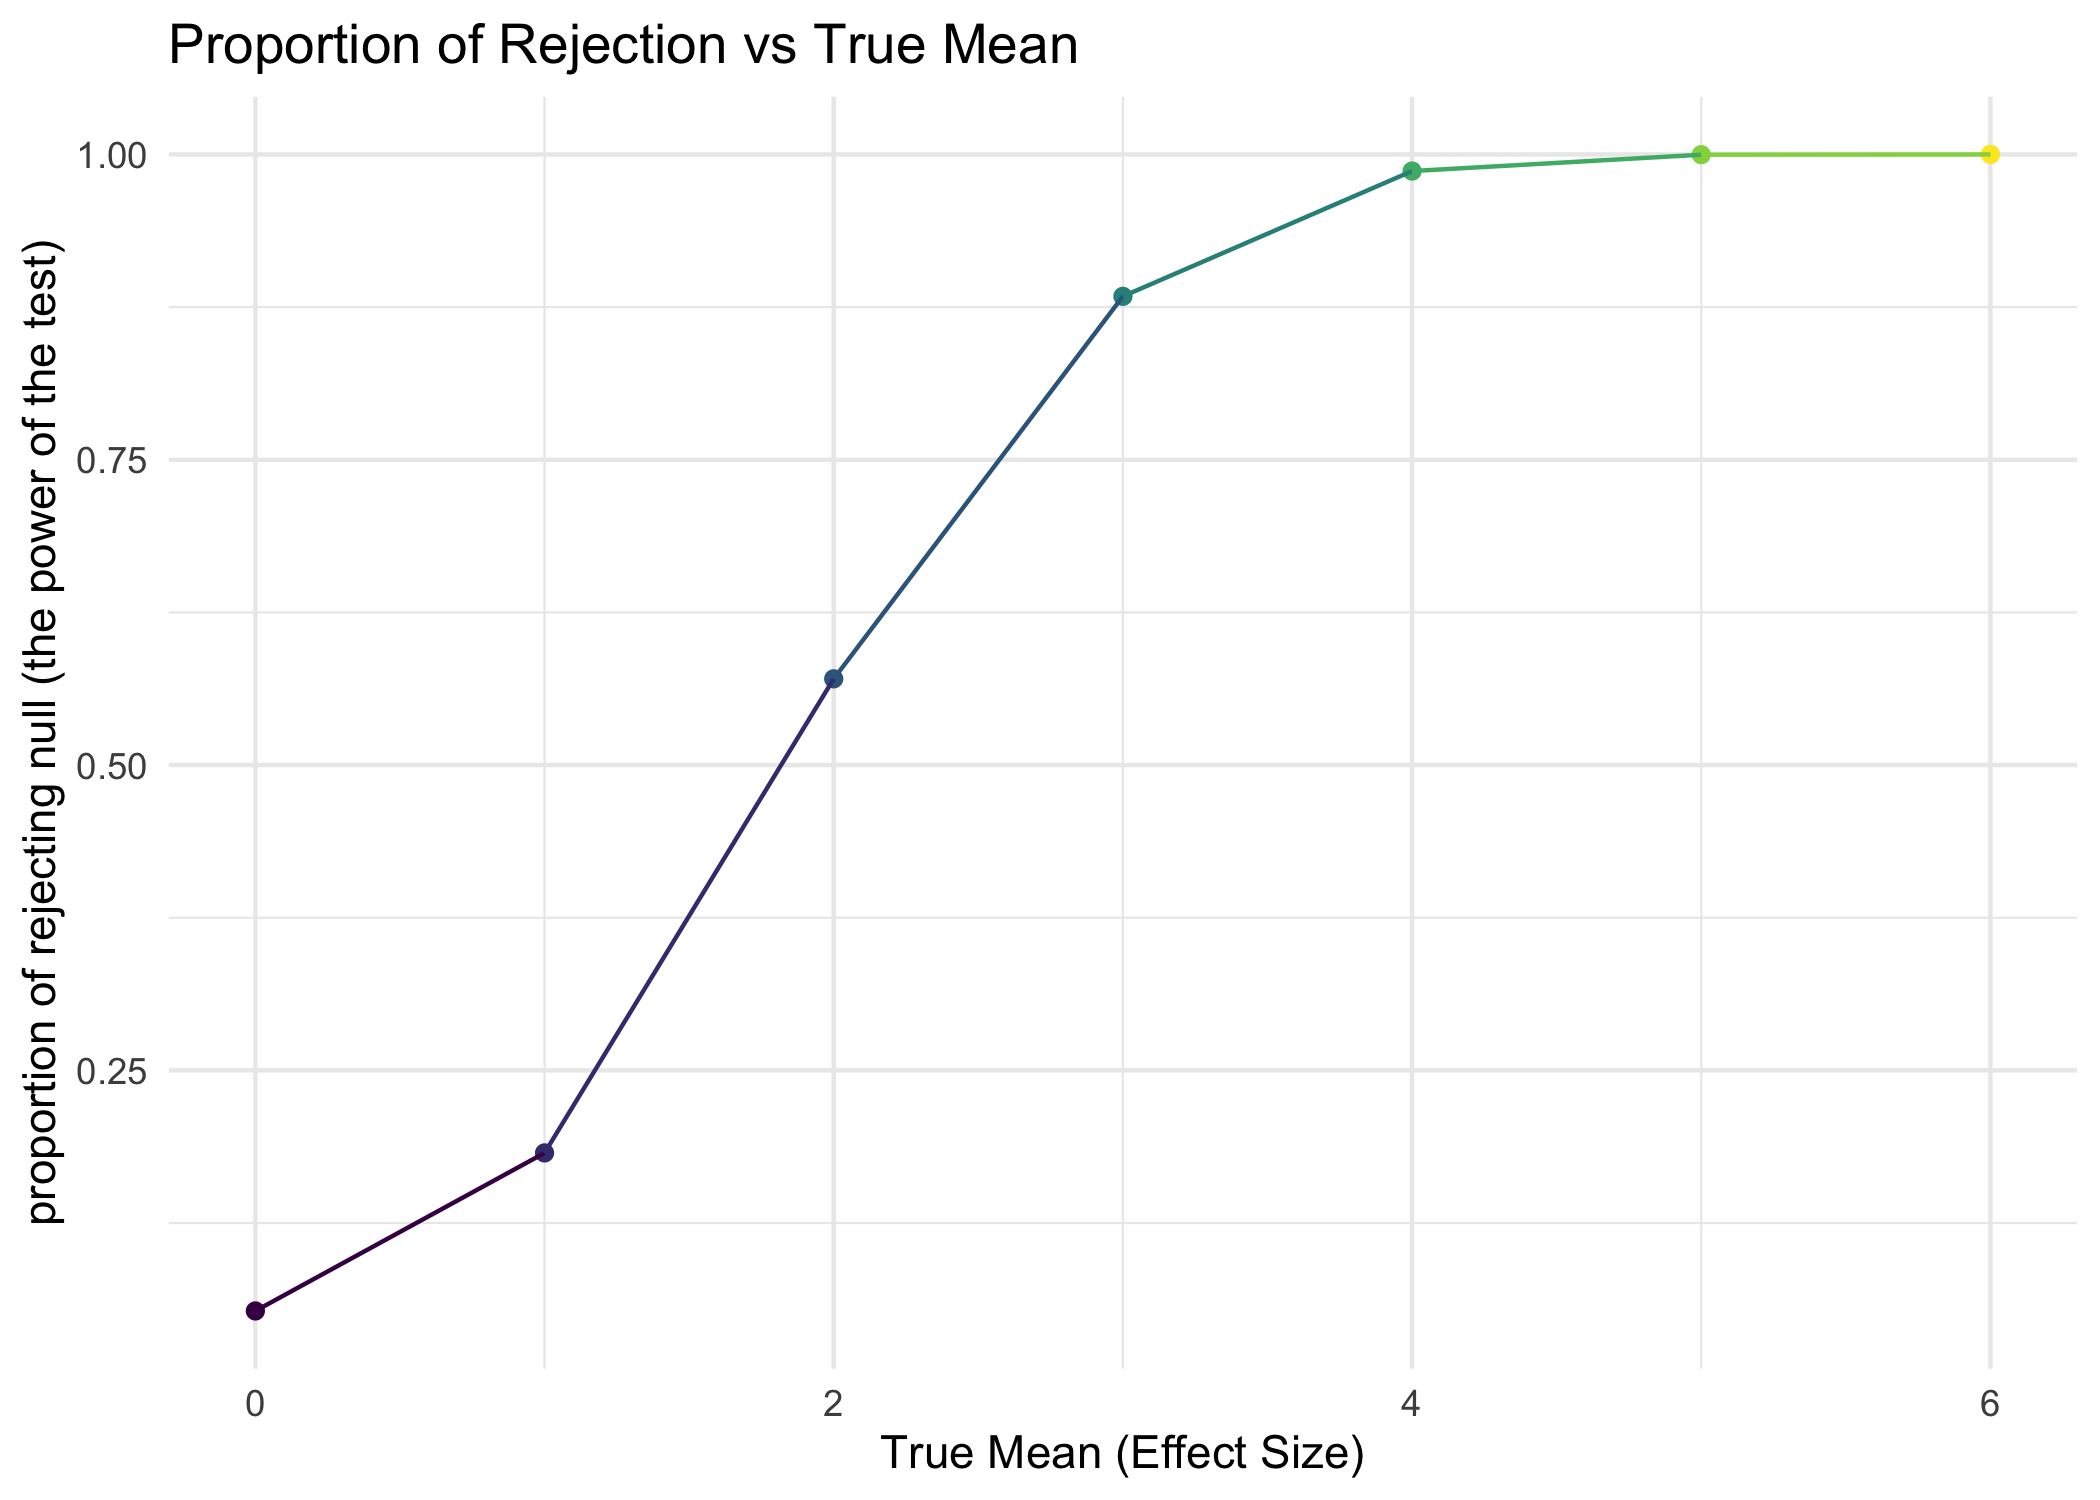
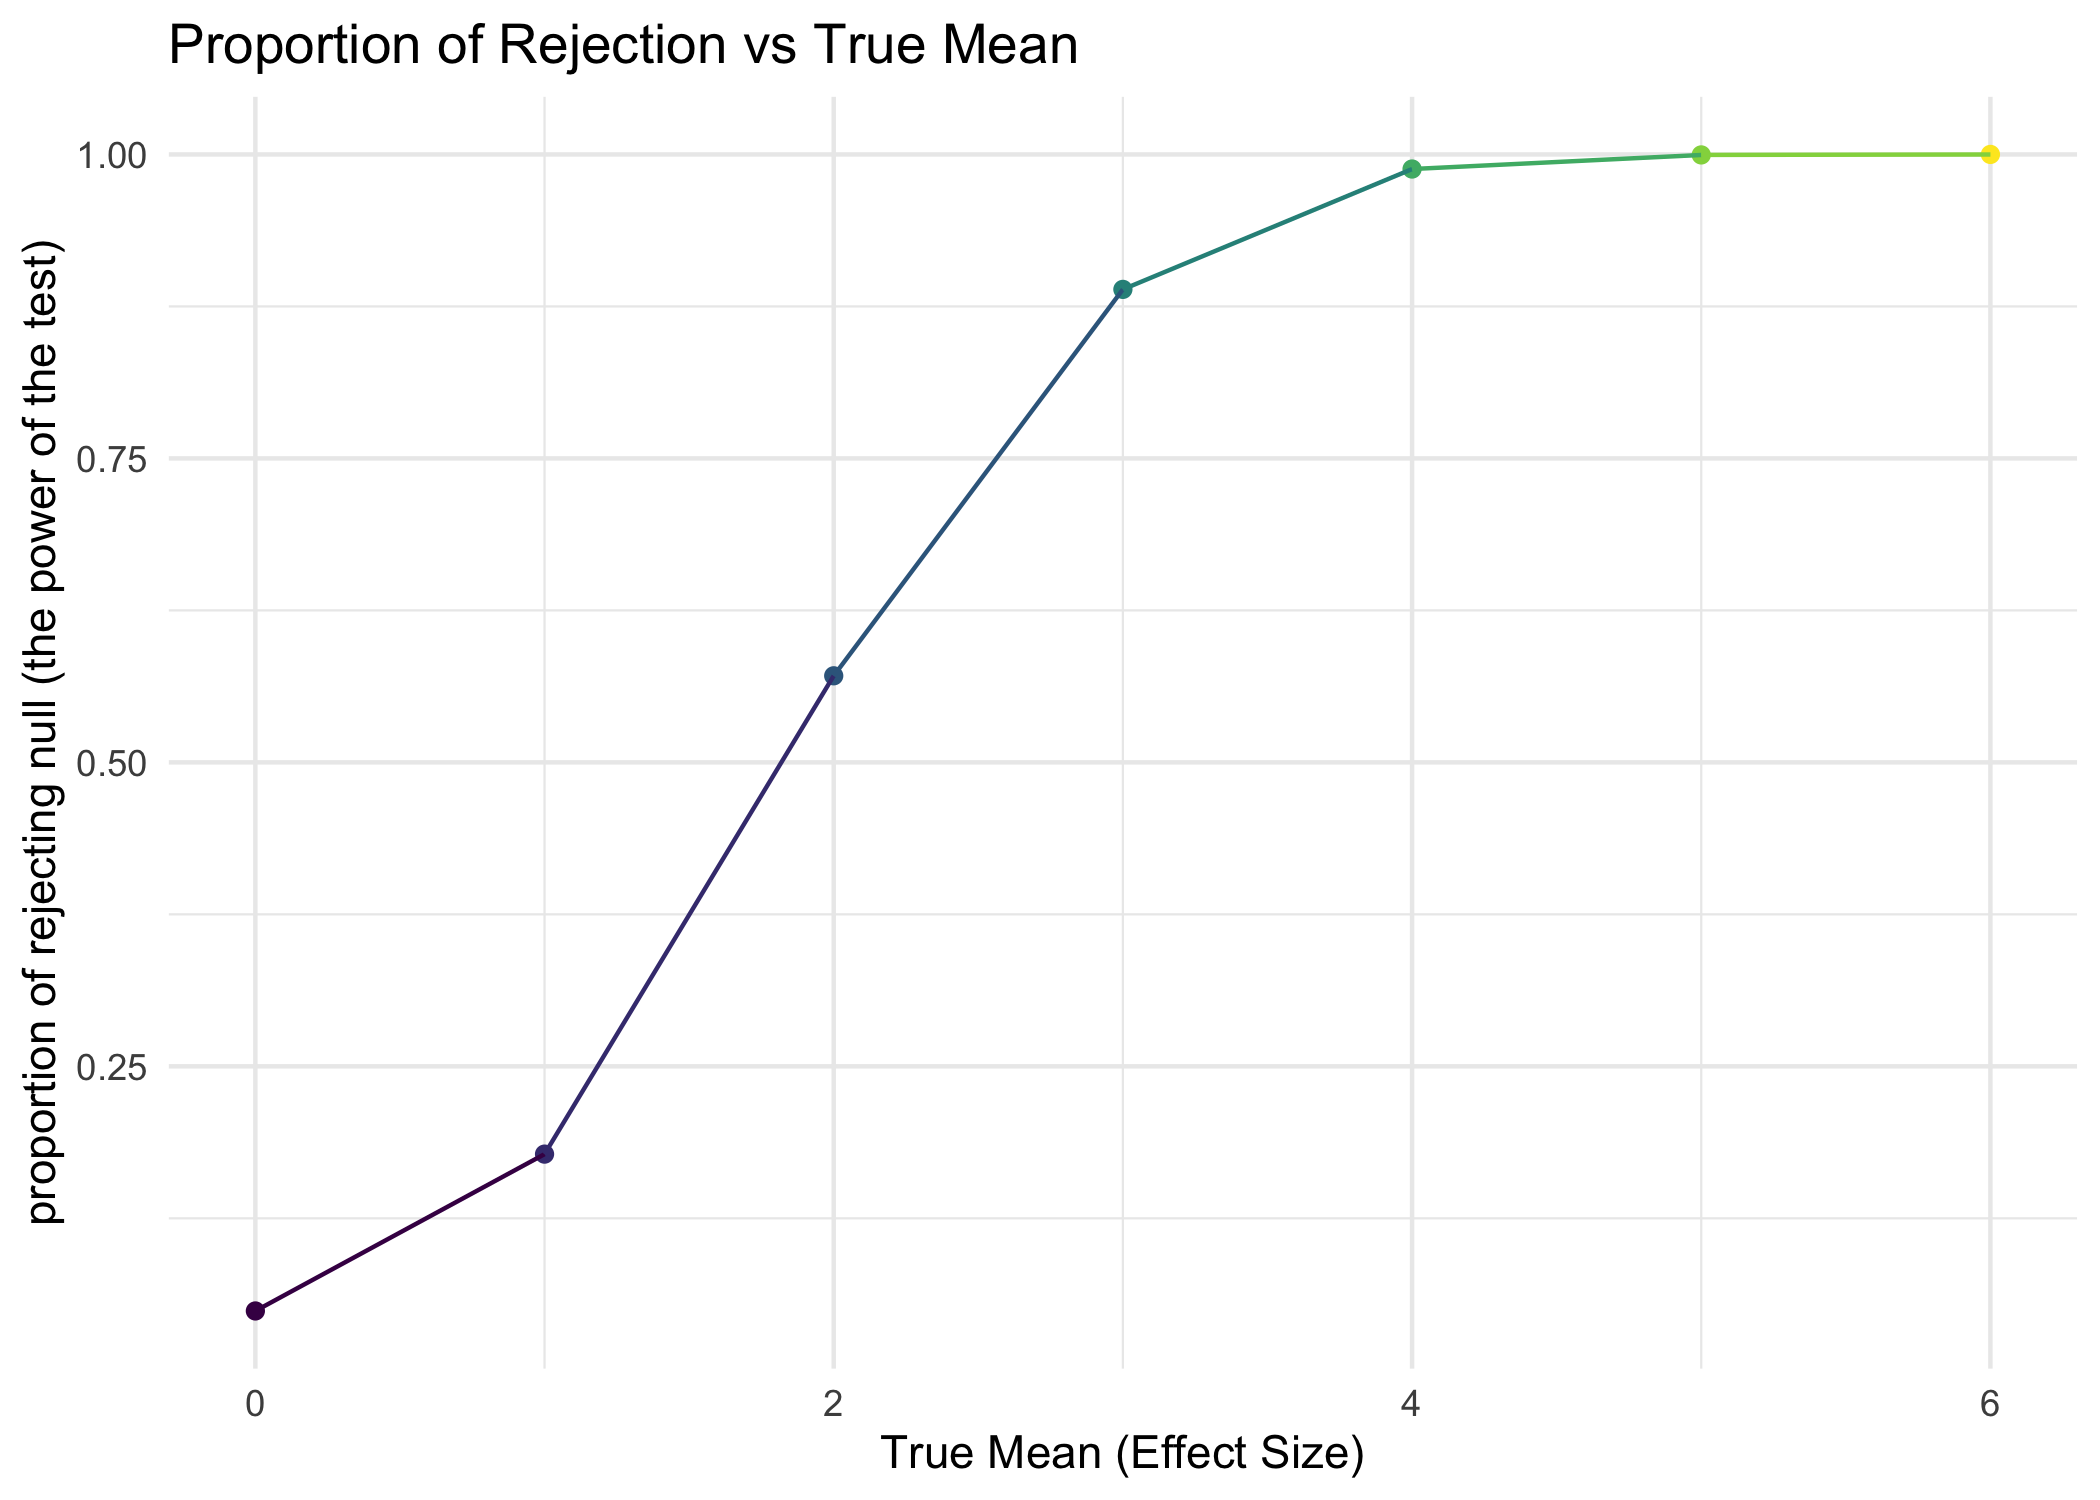
update prob3

diff --git a/p8105_hw5_tl3196.md b/p8105_hw5_tl3196.md
@@ -20,7 +20,7 @@ con_exp_df =
     data = purrr::map(
       .x = file_list, 
       ~read_csv(file = str_c(file_path, .x))),
-    sample = str_sub(sample, end = -5)
+    sample = str_replace(sample, ".csv", "")
   ) %>% 
    separate(
      col = sample, sep = '_', 
@@ -366,7 +366,7 @@ stat_data_0
     ## # A tibble: 1 × 4
     ##      mu     n n_reject proportion
     ##   <dbl> <int>    <int>      <dbl>
-    ## 1     0  5000      265      0.053
+    ## 1     0  5000      244     0.0488
 
 Generate data and conduct t-test for different mu
 
@@ -403,13 +403,13 @@ stat_data
     ## # A tibble: 7 × 4
     ##      mu     n n_reject proportion
     ##   <dbl> <int>    <int>      <dbl>
-    ## 1     0  5000      265      0.053
-    ## 2     1  5000      912      0.182
-    ## 3     2  5000     2853      0.571
-    ## 4     3  5000     4419      0.884
-    ## 5     4  5000     4932      0.986
-    ## 6     5  5000     4999      1.00 
-    ## 7     6  5000     5000      1
+    ## 1     0  5000      244     0.0488
+    ## 2     1  5000      889     0.178 
+    ## 3     2  5000     2856     0.571 
+    ## 4     3  5000     4445     0.889 
+    ## 5     4  5000     4940     0.988 
+    ## 6     5  5000     4998     1.00  
+    ## 7     6  5000     5000     1
 
 Make a plot showing the proportion of times the null was rejected (the
 power of the test) on the y axis and the true mu on the x axis
@@ -467,3 +467,28 @@ all_avg_mu %>%
 ```
 
 <img src="p8105_hw5_tl3196_files/figure-gfm/mu_hat_vs_true-1.png" width="90%" />
+
+From the plot above, we can conclude that the average $\hat{\mu}$ of the
+total simulation dataset always approaches the true mean in value. The
+average $\hat{\mu}$ increases as the true mean (effect size) increases,
+and thus it presents almost a linear relationship between average
+$\hat{\mu}$ and the true mean.
+
+The average $\hat{\mu}$ only in samples for which the null was rejected
+does not have such simple linear relationship. In the samples with small
+true mean, i.e. mu = 1, 2, the average $\hat{\mu}$ in samples rejecting
+the null is obviously higher than both the true mean and the average
+$\hat{\mu}$ of all samples. As the true mean (effect size) continues
+increasing, the average $\hat{\mu}$ in samples rejecting the null
+gradually approaches the true mean and the average $\hat{\mu}$ of all
+samples.
+
+This is because as true mean increases, the proportion of rejecting the
+null also increases. When taking sample average of $\hat{\mu}$ across
+tests for which the null is rejected, if the true mean is small, there
+will be a low proportion of rejecting the null, thus the average
+$\hat{\mu}$ among these rejecting samples can be away from the true
+mean; if the true mean is large, there will be a much higher proportion
+of rejecting the null, making the sample average of $\hat{\mu}$ across
+tests for which the null is rejected approximately equal to the true
+$\mu$.
